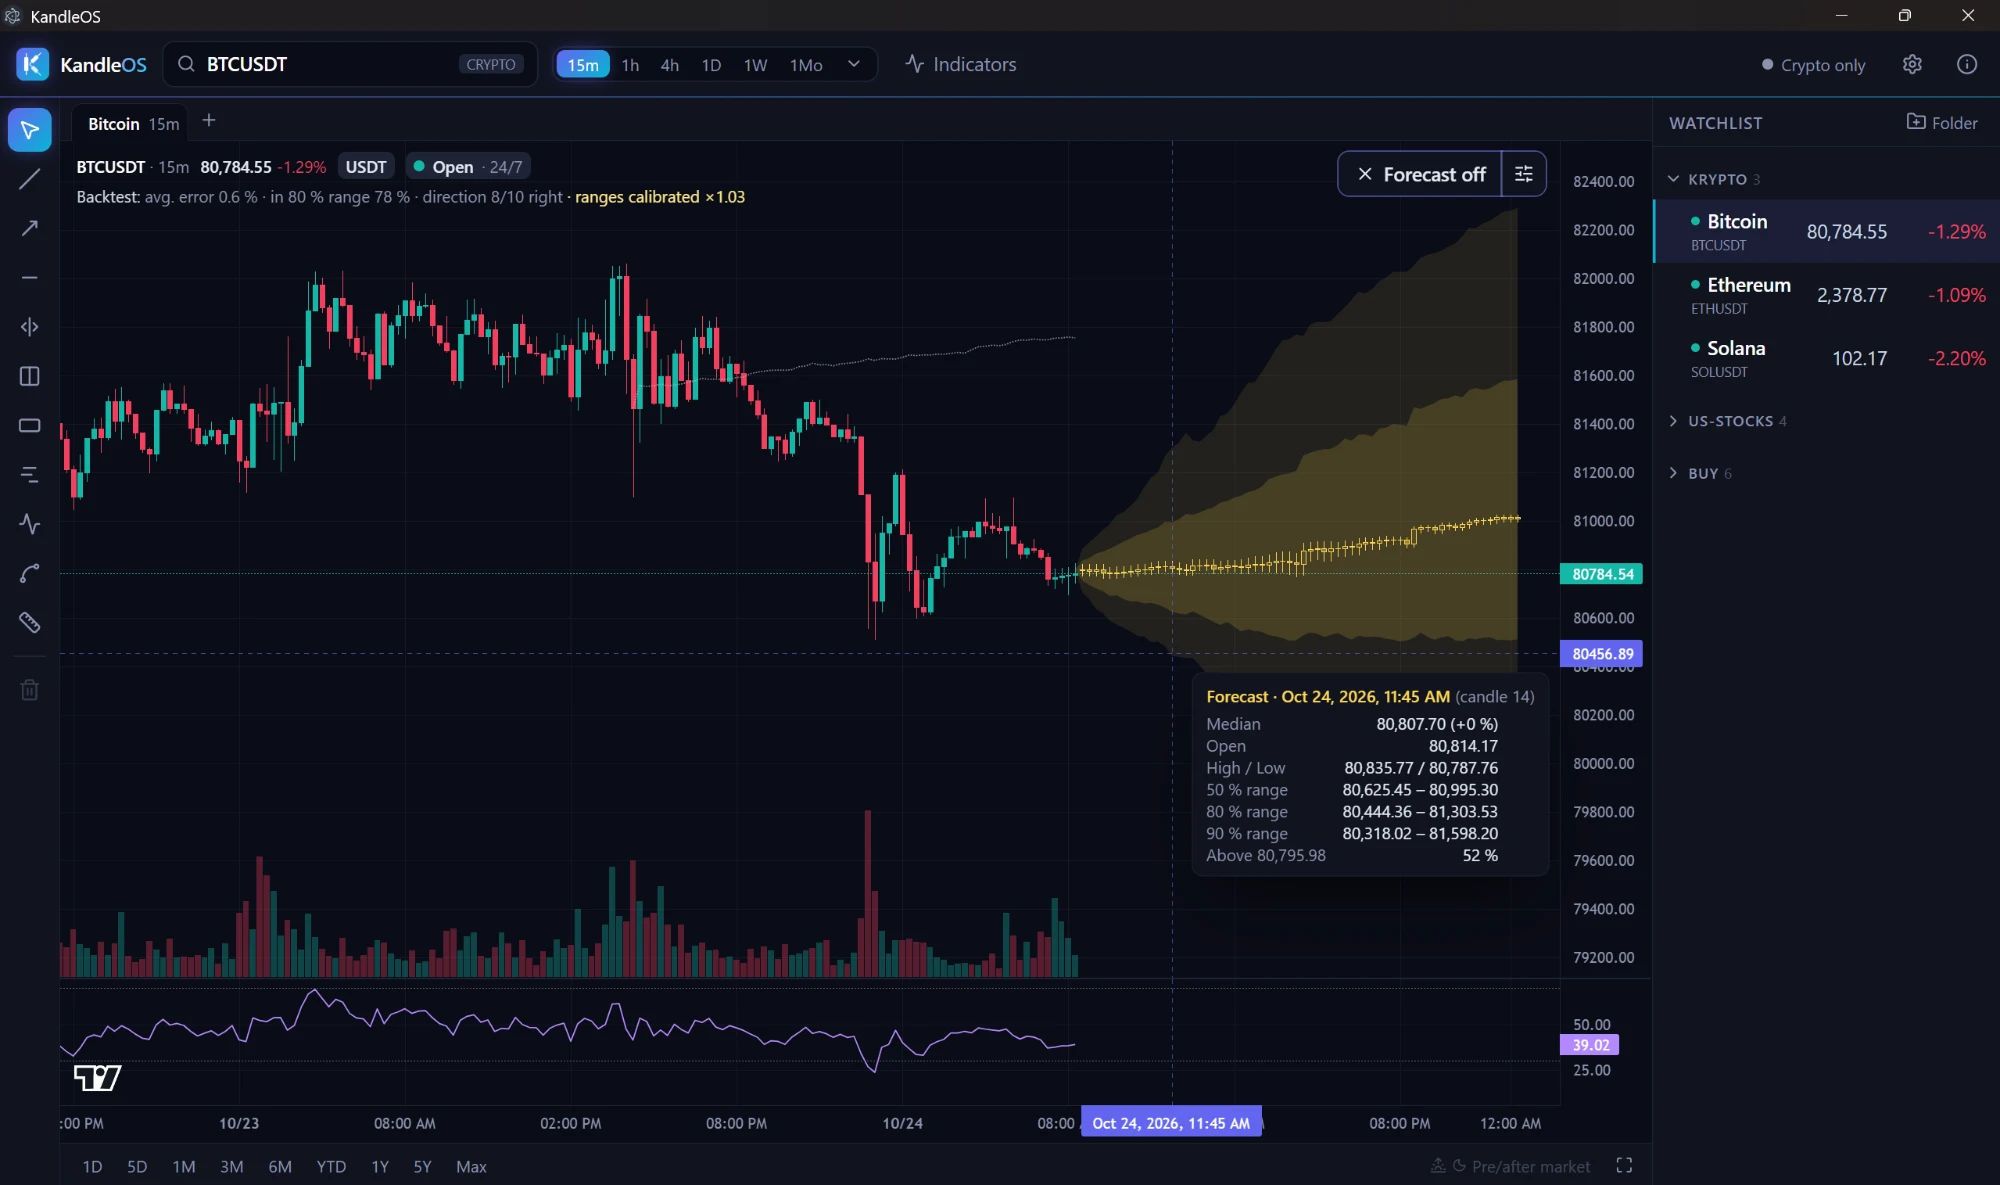
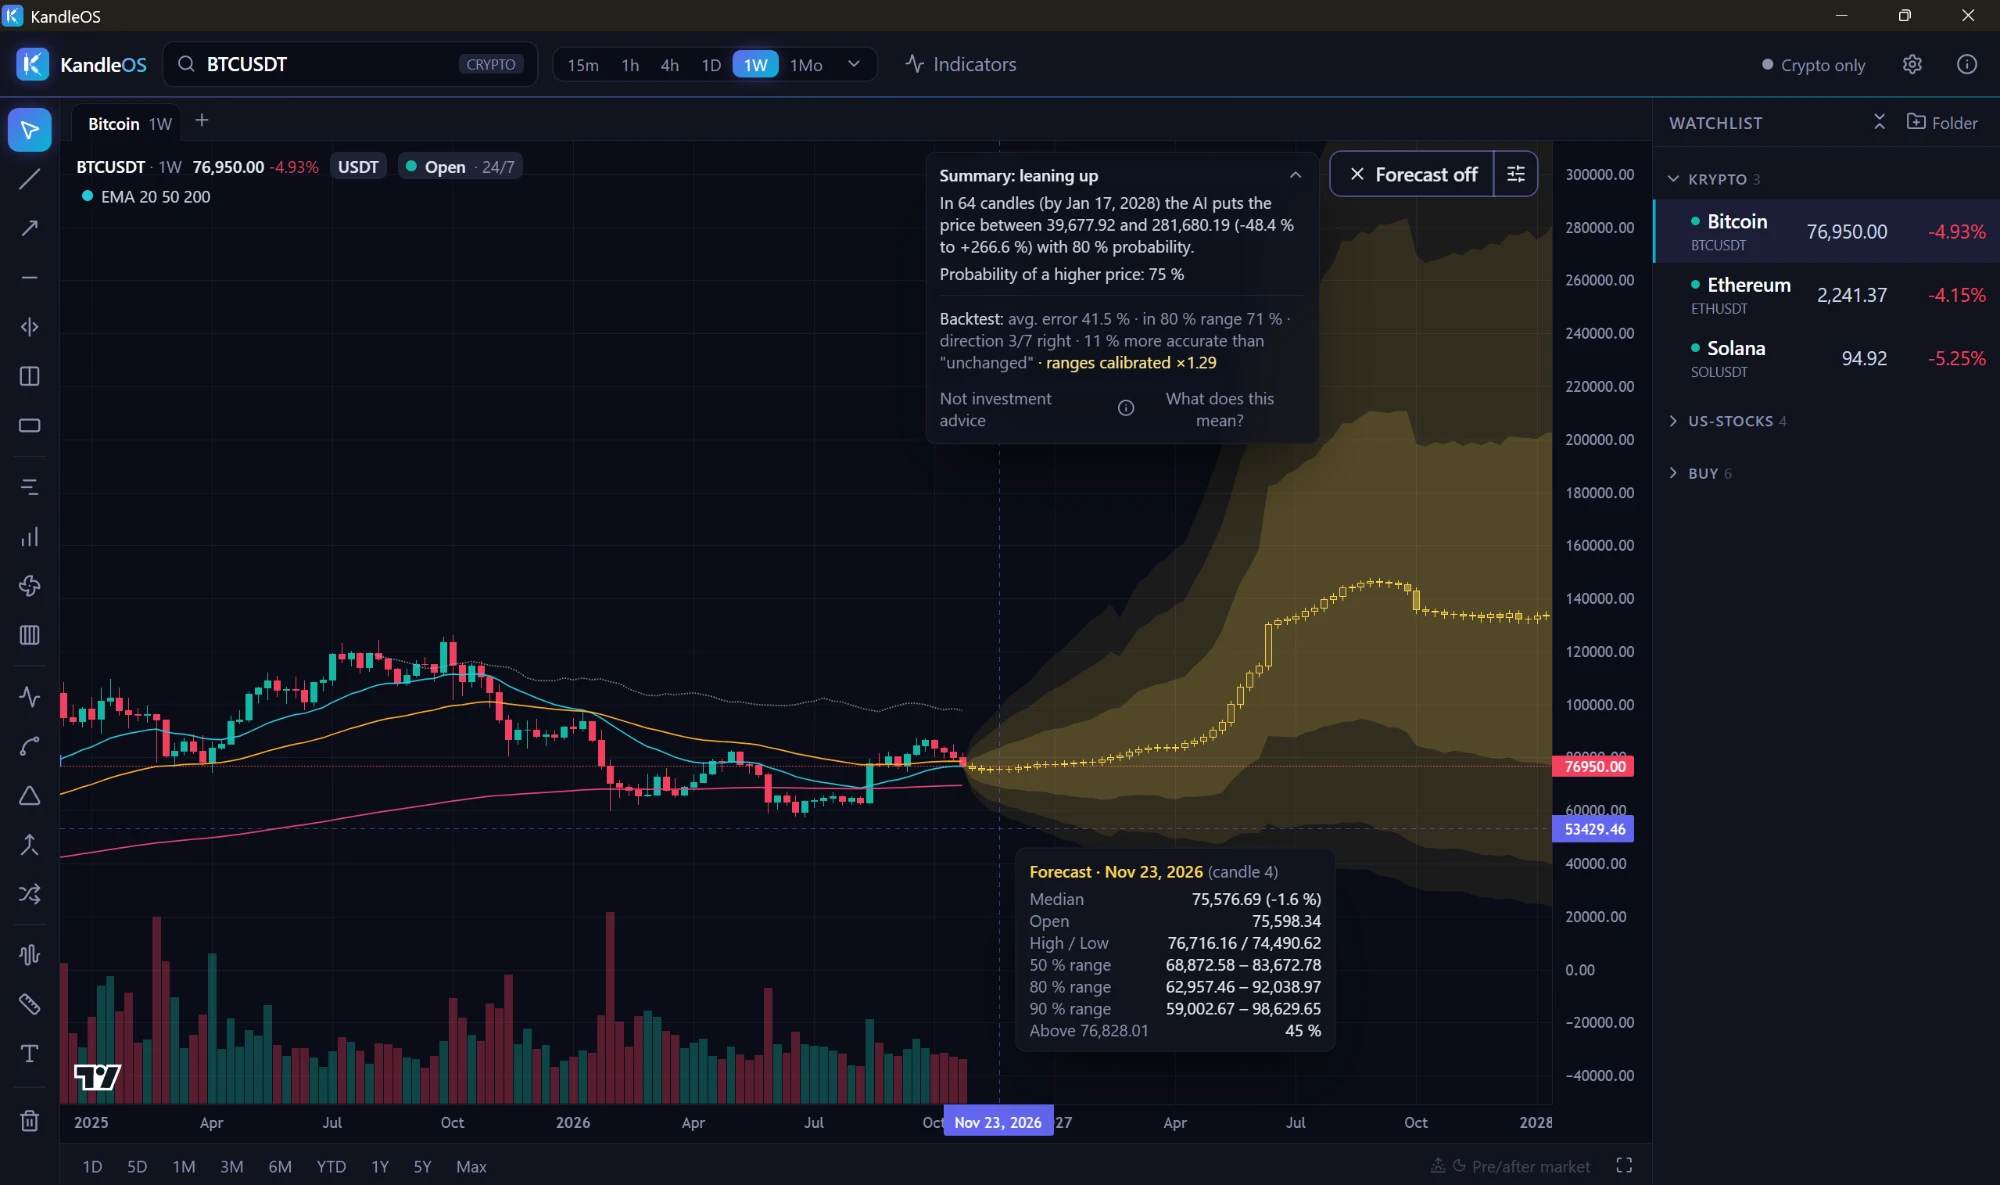
README: neuer Screenshot (Bitcoin-Wochenkerzen mit Fazit-Karte)

diff --git a/README.md b/README.md
@@ -5,7 +5,7 @@
 A fast, local desktop app for technical chart analysis on **Windows and Linux**, with a built-in
 AI price forecast (Chronos-2) that runs entirely on your computer.
 
-![KandleOS with a calibrated Chronos-2 forecast for Bitcoin (15-minute candles): forecast candles, uncertainty ranges and the values of one forecast step](docs/screenshot.webp)
+![KandleOS with a calibrated Chronos-2 forecast for Bitcoin (weekly candles): forecast candles, uncertainty ranges, the forecast summary and the values of one forecast step](docs/screenshot.webp)
 
 ## Features
 
